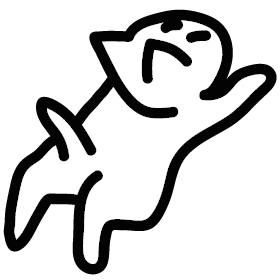
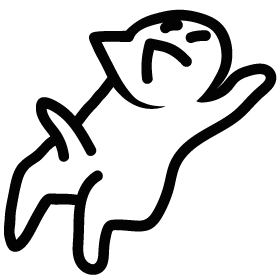
turn into ccnode and add new textures for the future

diff --git a/src/NekoBoundary.cpp b/src/NekoBoundary.cpp
@@ -3,10 +3,10 @@
 
 using namespace geode::prelude;
 
-NekoBoundary* NekoBoundary::create(CCLayer* layer) {
+NekoBoundary* NekoBoundary::create(CCNode* parent) {
     auto res = new NekoBoundary();
 
-    if (res && res->init(layer)) {
+    if (res && res->init(parent)) {
         res->autorelease();
         return res;
     }
@@ -15,29 +15,29 @@ NekoBoundary* NekoBoundary::create(CCLayer* layer) {
     return nullptr;
 }
 
-void NekoBoundary::placeWithRect(CCLayer* layer, CCRect rect) {
+void NekoBoundary::placeWithRect(CCNode* parent, CCRect rect) {
     auto director = CCDirector::get();
-    auto nekoBoundary = NekoBoundary::create(layer);
+    auto nekoBoundary = NekoBoundary::create(parent);
 
     nekoBoundary->setPosition(rect.origin);
     nekoBoundary->setContentSize(rect.size);
     
-    layer->addChild(nekoBoundary);
+    parent->addChild(nekoBoundary);
 }
 
-void NekoBoundary::place(CCLayer* layer) {
+void NekoBoundary::place(CCNode* parent) {
     auto director = CCDirector::get();
-    auto nekoBoundary = NekoBoundary::create(layer);
+    auto nekoBoundary = NekoBoundary::create(parent);
 
-    layer->addChild(nekoBoundary);
+    parent->addChild(nekoBoundary);
 }
 
-bool NekoBoundary::init(CCLayer* layer) {
-    if (!CCLayer::init()) return false;
+bool NekoBoundary::init(CCNode* parent) {
+    if (!CCNode::init()) return false;
 
     this->setID("neko-boundary"_spr);
     
-    CCArrayExt<CCNode*> siblings = layer->getChildren();
+    CCArrayExt<CCNode*> siblings = parent->getChildren();
     
     int highestZ = 0;
     for (auto sibling : siblings) {
@@ -47,7 +47,13 @@ bool NekoBoundary::init(CCLayer* layer) {
     }
     this->setZOrder(highestZ + 1);
     
+    auto contentSize = parent->getContentSize();
+    this->setContentSize(contentSize);
+    this->setAnchorPoint(ccp(0.5f, 0.5f));
+    this->setPosition(contentSize / 2);
+    
     auto nekoNode = NekoNode::create(this);
+
     this->addChild(nekoNode);
     return true;
 }

diff --git a/src/main.cpp b/src/main.cpp
@@ -6,22 +6,22 @@
 
 using namespace geode::prelude;
 
-using CreateNekoRectEvent = geode::DispatchEvent<CCLayer*, CCRect>;
-using CreateNekoRectFilter = geode::DispatchFilter<CCLayer*, CCRect>;
-using CreateNekoEvent = geode::DispatchEvent<CCLayer*>;
-using CreateNekoFilter = geode::DispatchFilter<CCLayer*>;
+using CreateNekoRectEvent = geode::DispatchEvent<CCNode*, CCRect>;
+using CreateNekoRectFilter = geode::DispatchFilter<CCNode*, CCRect>;
+using CreateNekoEvent = geode::DispatchEvent<CCNode*>;
+using CreateNekoFilter = geode::DispatchFilter<CCNode*>;
 
 $execute{
-    // Layer needs to be specified because getting the scene from CCDirector gives me the exiting scene
+    // Parent needs to be specified because getting the scene from CCDirector gives me the exiting scene
     // Create Neko boundary with given CCRect
-    new EventListener<CreateNekoRectFilter>(+[](CCLayer* layer, CCRect rect) {
-        NekoBoundary::placeWithRect(layer, rect);
+    new EventListener<CreateNekoRectFilter>(+[](CCNode* parent, CCRect rect) {
+        NekoBoundary::placeWithRect(parent, rect);
         return ListenerResult::Propagate;
     }, CreateNekoRectFilter("create-neko-rect"_spr));
 
     // Create Neko boundary for full screen
-    new EventListener<CreateNekoFilter>(+[](CCLayer* layer) {
-        NekoBoundary::place(layer);
+    new EventListener<CreateNekoFilter>(+[](CCNode* parent) {
+        NekoBoundary::place(parent);
         return ListenerResult::Propagate;
     }, CreateNekoFilter("create-neko"_spr));
 };

diff --git a/src/NekoNode.cpp b/src/NekoNode.cpp
@@ -22,9 +22,9 @@ bool NekoNode::init(NekoBoundary* boundary) {
 
     this->setID("neko"_spr);
     this->setContentSize({ scaledContentSize, scaledContentSize });
+    this->setAnchorPoint(ccp(0.5f, 0.5f));
     this->setPositionX(boundary->getContentWidth() / 2);
     this->setPositionY(boundary->getContentHeight() / 2);
-    this->setAnchorPoint(ccp(0.5f, 0.5f));
 
     auto nekoSprite = CCSprite::createWithSpriteFrameName("idle_0_0.png"_spr);
 
@@ -45,7 +45,7 @@ bool NekoNode::init(NekoBoundary* boundary) {
 void NekoNode::update(float dt) {
     auto& boundary = this->m_nekoBoundary;
     auto boundaryRect = CCRect(boundary->getPosition(), boundary->getContentSize());
-    auto const mousePos = geode::cocos::getMousePos() - boundaryRect.origin;
+    auto const mousePos = geode::cocos::getMousePos() - boundaryRect.origin + boundaryRect.size / 2;
     auto const vec = mousePos - this->getPosition();
     auto const normVec = vec.normalize();
     auto const pos = this->getPosition();
@@ -68,7 +68,7 @@ void NekoNode::update(float dt) {
             futurePos.x = nekoSize.width;
         else if (pos.x > boundaryRect.size.width - nekoSize.width)
             futurePos.x = boundaryRect.size.width - nekoSize.width;
-        else if (pos.y < nekoSize.height)
+        if (pos.y < nekoSize.height)
             futurePos.y = nekoSize.height;
         else if (pos.y > boundaryRect.size.height - nekoSize.height)
             futurePos.y = boundaryRect.size.height - nekoSize.height;

diff --git a/src/NekoBoundary.hpp b/src/NekoBoundary.hpp
@@ -5,18 +5,17 @@
 
 class NekoNode;
 
-class NekoBoundary : public cocos2d::CCLayer {
+class NekoBoundary : public cocos2d::CCNode {
 protected:
     NekoNode* m_nekoNode = nullptr; // unused but i think this may be handy later on
     
 public:
-    static NekoBoundary* create(cocos2d::CCLayer*);
-    static void placeWithRect(cocos2d::CCLayer*, cocos2d::CCRect);
-    static void place(cocos2d::CCLayer*);
+    static NekoBoundary* create(cocos2d::CCNode*);
+    static void placeWithRect(cocos2d::CCNode*, cocos2d::CCRect);
+    static void place(cocos2d::CCNode*);
     
-    bool init(CCLayer*);
+    bool init(CCNode*);
 
-    CCLayer* m_layer = nullptr;
 };
 
 #endif
